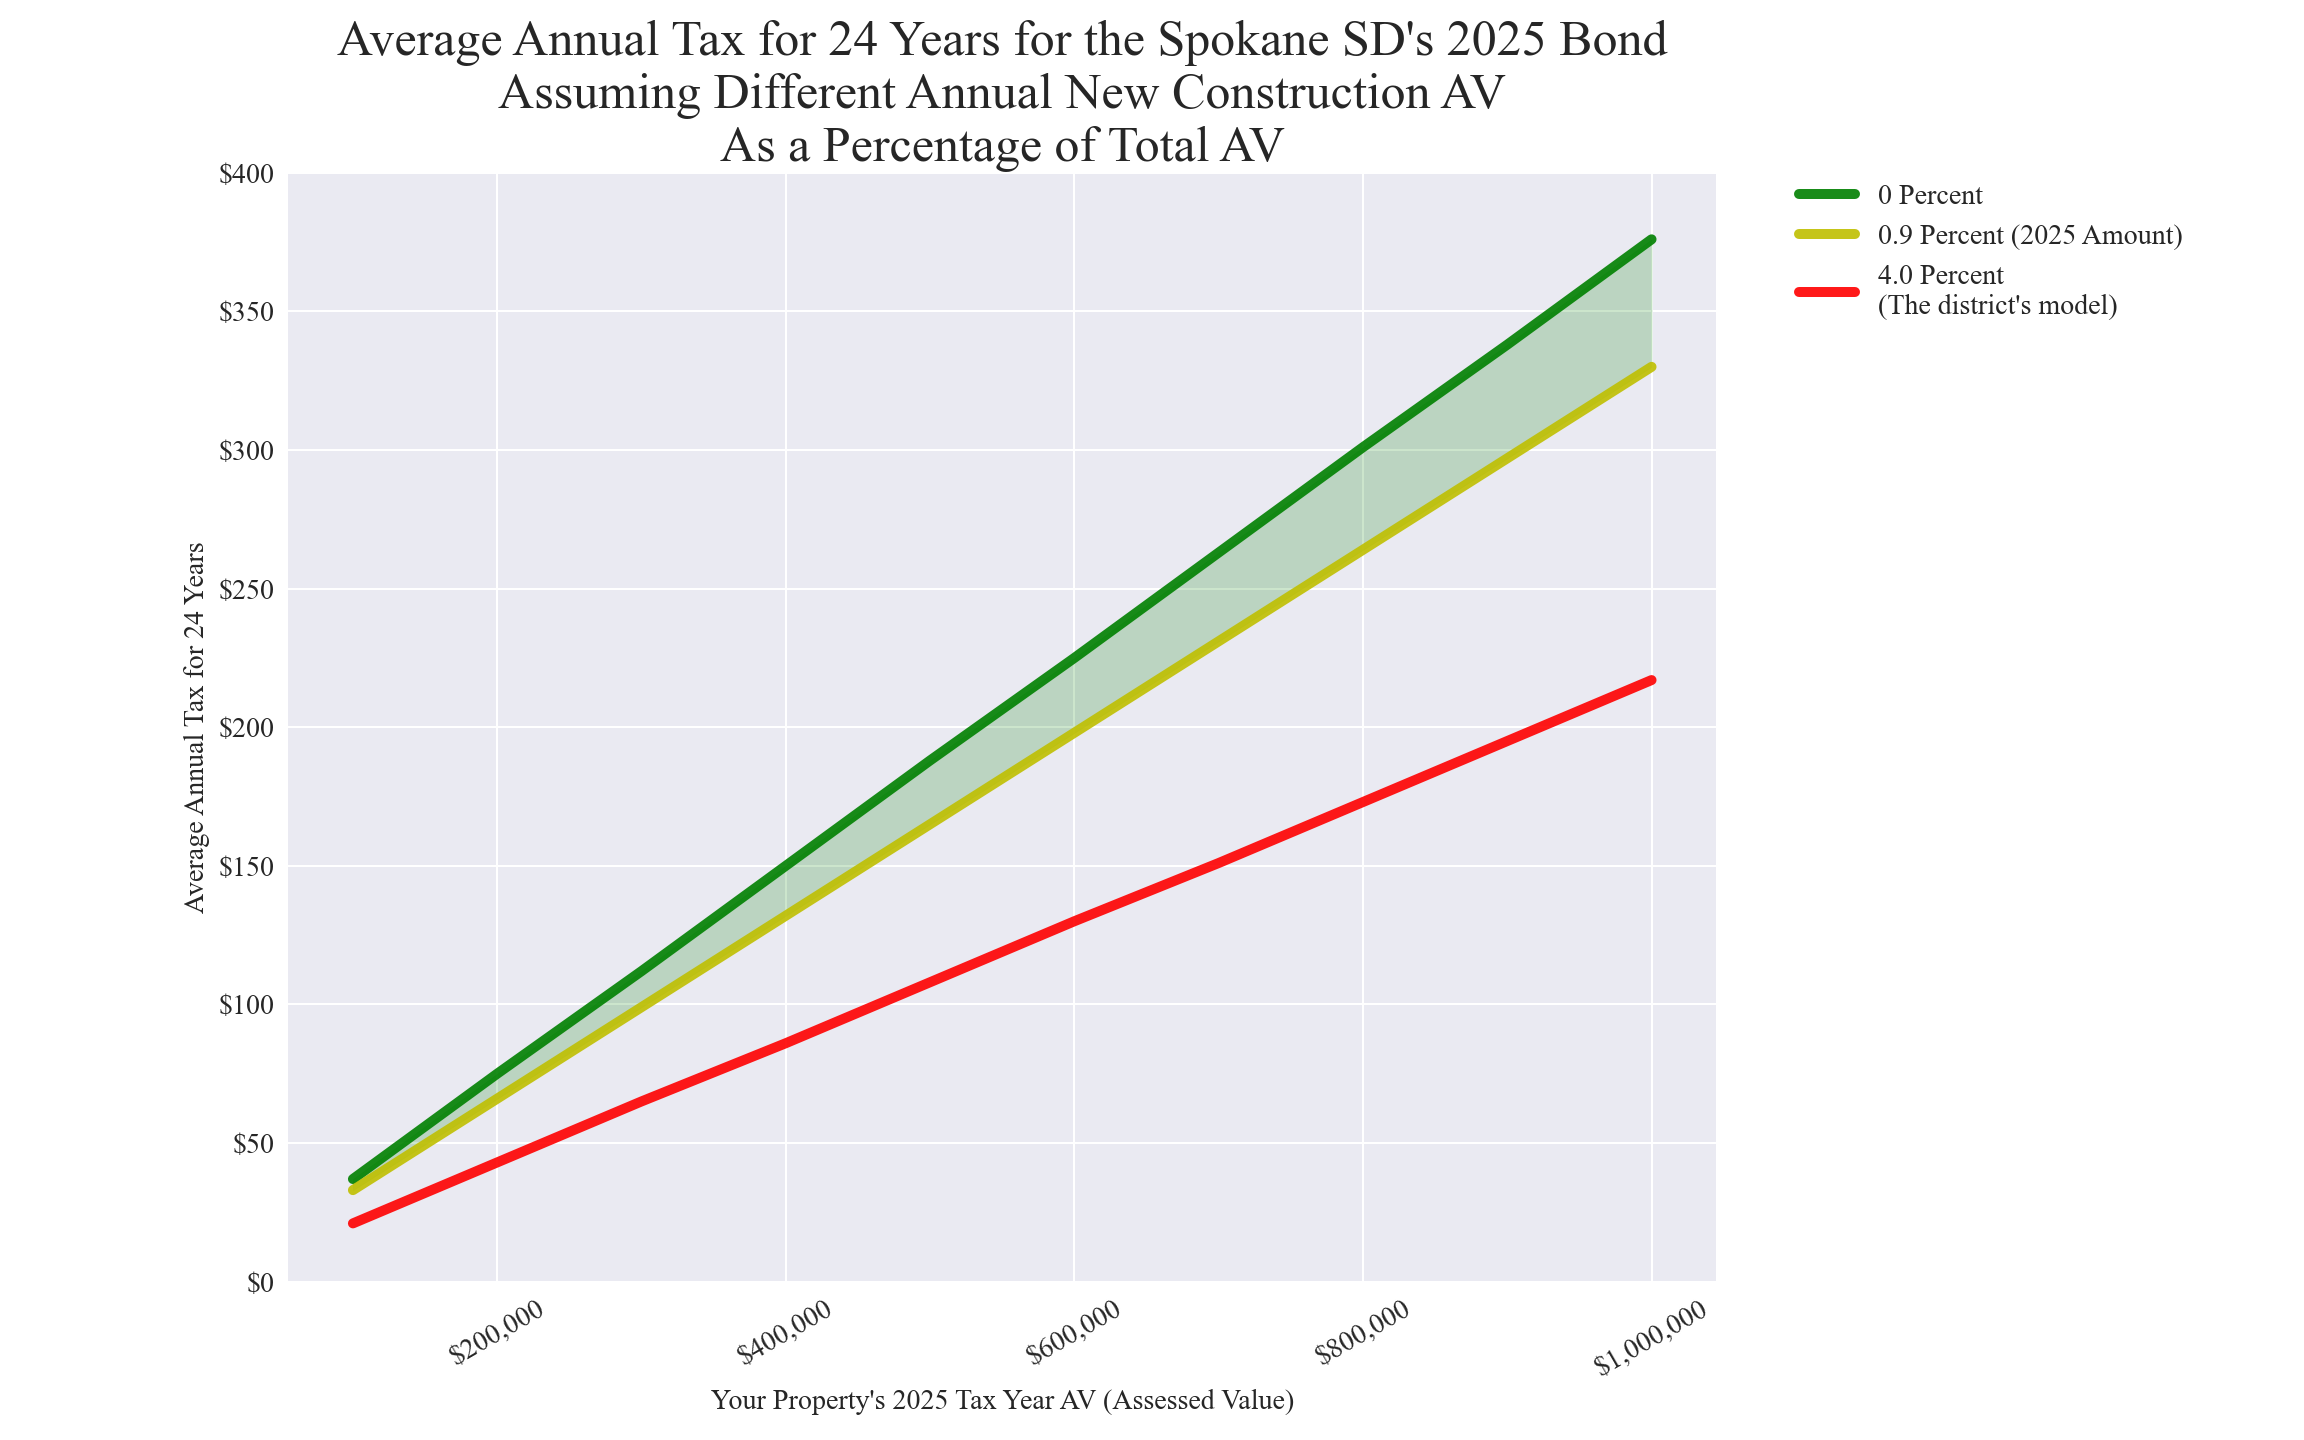
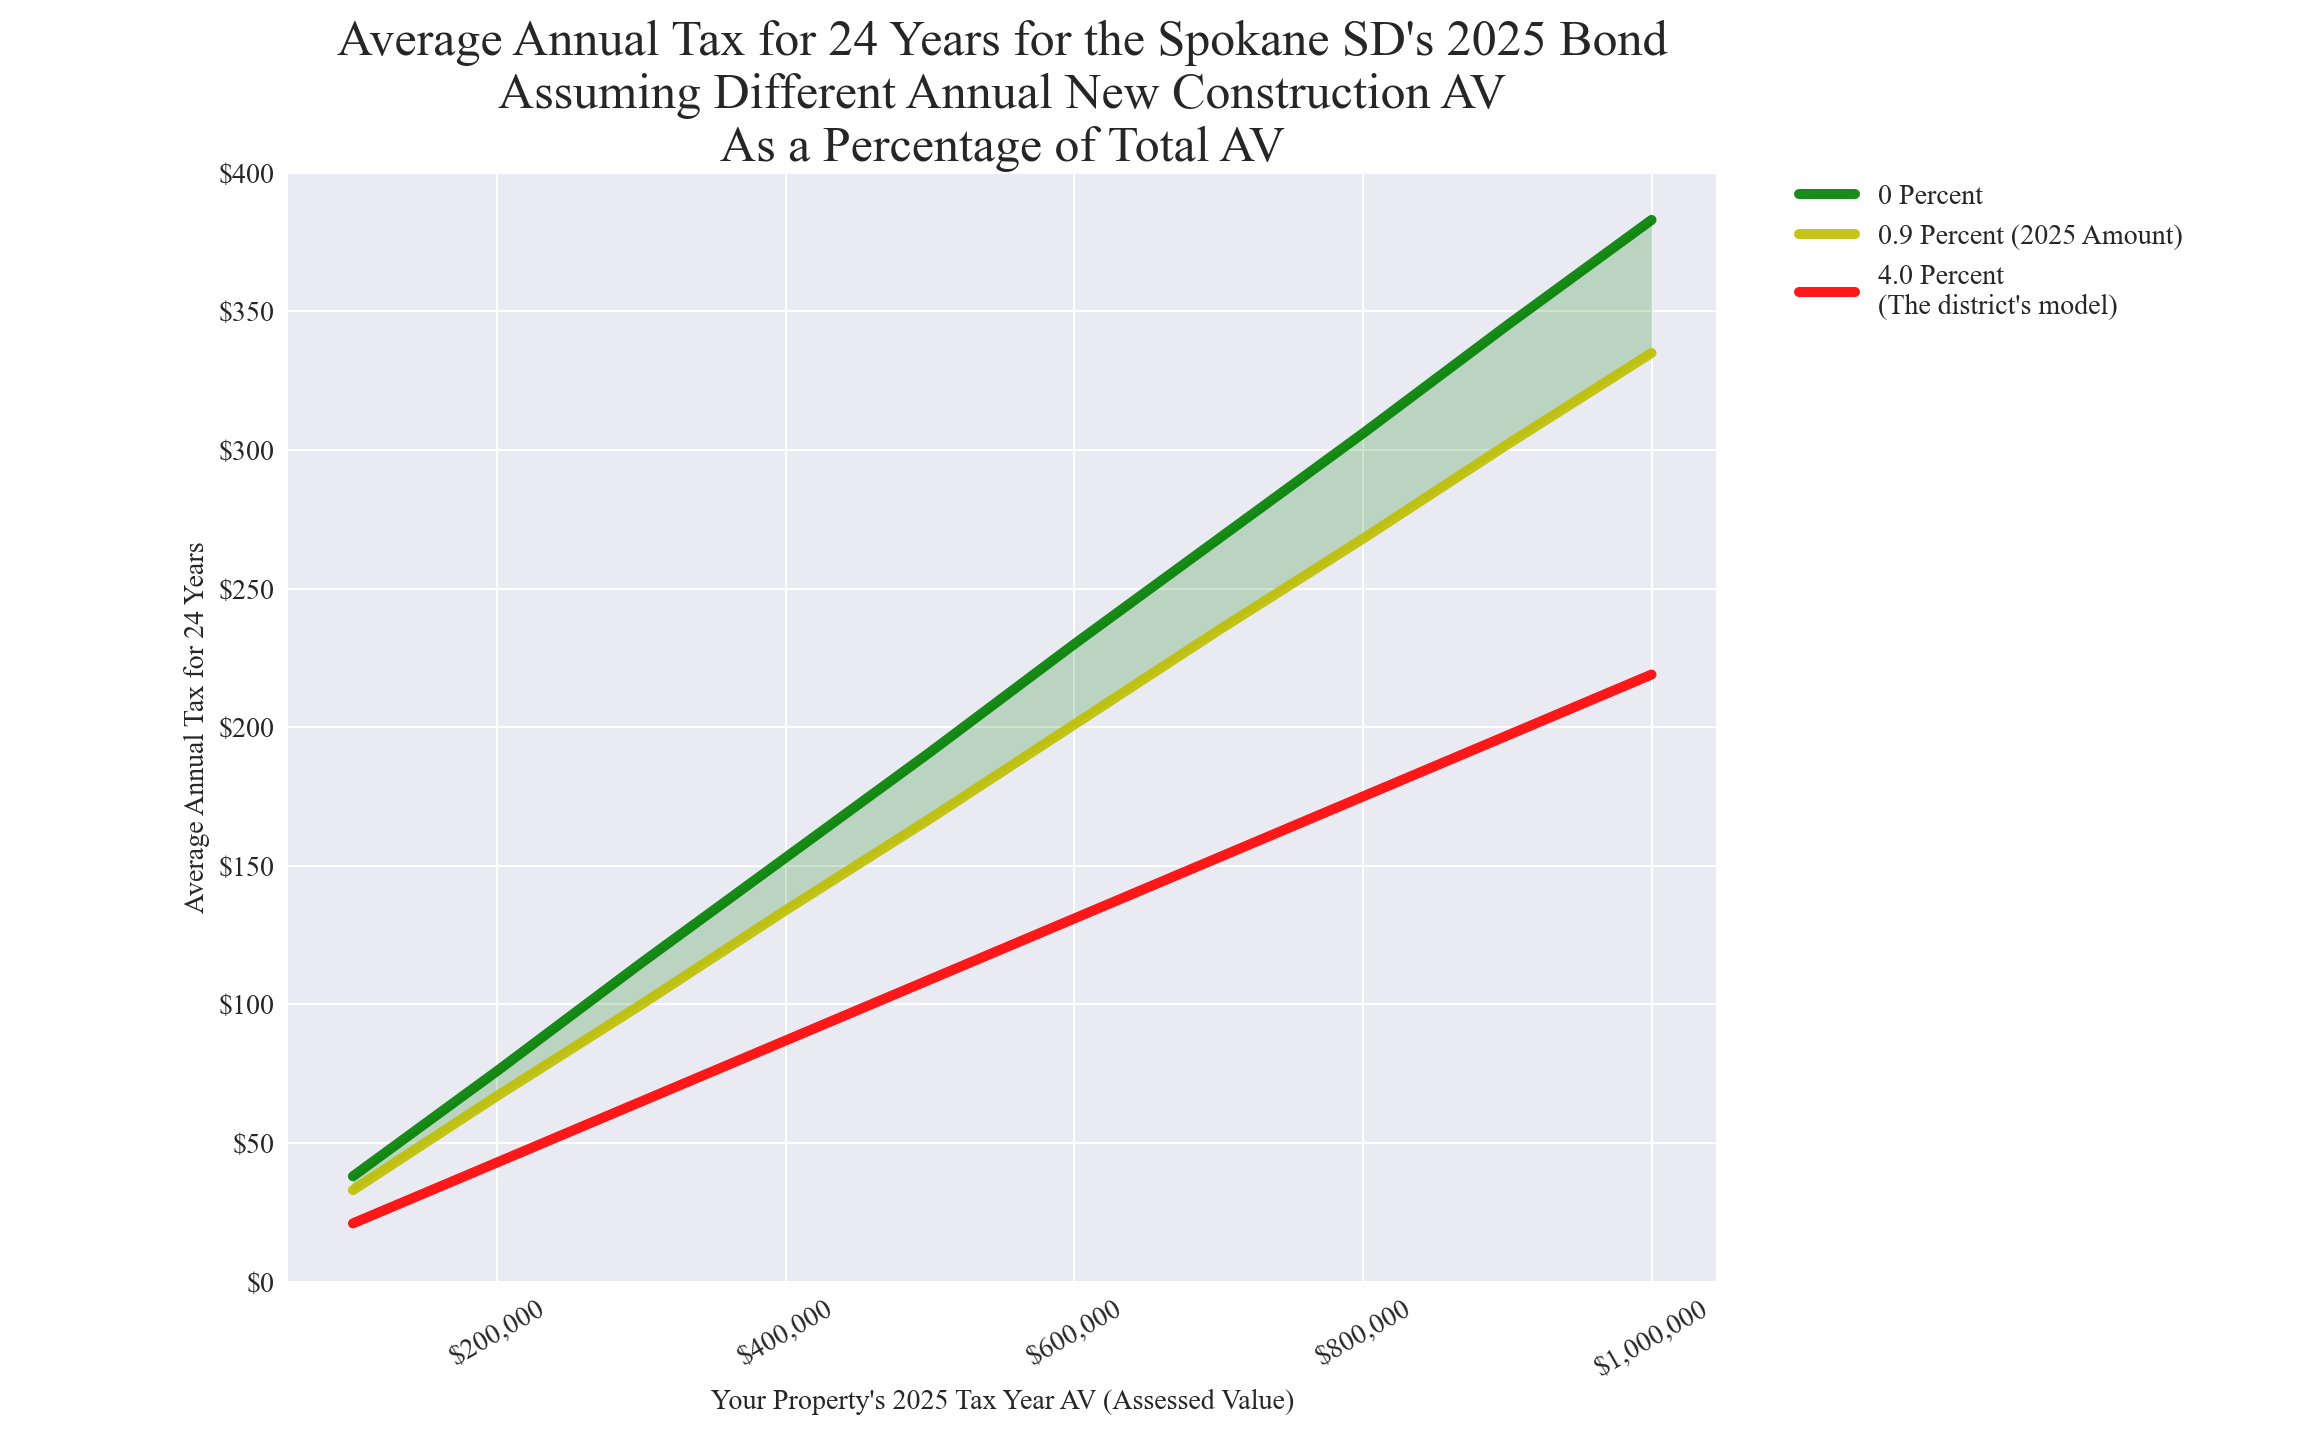
Updated election 20251104

diff --git a/_includes/cost_estimates/20251104/SpokaneBondTable_20251104.html b/_includes/cost_estimates/20251104/SpokaneBondTable_20251104.html
@@ -19,7 +19,7 @@ table, th, td {
 	sampleParcelAV = 475000;
 	sampleParcelAVMin = 100000;
 	sampleParcelAVMax = 2000000;
-	totalLevyCost = 344467032.457174;
+	totalLevyCost = 350781550;
 	sampleParcelPOF = sampleParcelAV / totalLevyAV;
 	totalLevyCostParcel = sampleParcelPOF * totalLevyCost;
 	levyYears = 24;
@@ -69,24 +69,24 @@ table, th, td {
 				['2025', 0, 36646353000, 0.0, 0, 0, 0.0, 0, 0, 0, 0.0, 0.0, 0],
 			['2026', 3494568, 36646353000, 0.0, 0, 0, 0.0, 0, 0, 0, 0.0, 0.0, 0],
 			['2027', 3641043, 36646353000, 0.0, 0, 0, 0.0, 0, 0, 0, 0.0, 0.0, 0],
-			['2028', 7812346, 36646353000, 0.0, 0, 0, 0.0, 0, 0, 0, 0.0, 0.0, 0],
-			['2029', 6184346, 36646353000, 0.0, 0, 0, 0.0, 0, 0, 0, 0.0, 0.0, 0],
-			['2030', 9523346, 36646353000, 0.0, 0, 0, 0.0, 0, 0, 0, 0.0, 0.0, 0],
-			['2031', 9908346, 36646353000, 0.0, 0, 0, 0.0, 0, 0, 0, 0.0, 0.0, 0],
-			['2032', 11718346, 36646353000, 0.0, 0, 0, 0.0, 0, 0, 0, 0.0, 0.0, 0],
-			['2033', 11828346, 36646353000, 0.0, 0, 0, 0.0, 0, 0, 0, 0.0, 0.0, 0],
-			['2034', 9376346, 36646353000, 0.0, 0, 0, 0.0, 0, 0, 0, 0.0, 0.0, 0],
-			['2035', 14236346, 36646353000, 0.0, 0, 0, 0.0, 0, 0, 0, 0.0, 0.0, 0],
-			['2036', 15442346, 36646353000, 0.0, 0, 0, 0.0, 0, 0, 0, 0.0, 0.0, 0],
-			['2037', 15975096, 36646353000, 0.0, 0, 0, 0.0, 0, 0, 0, 0.0, 0.0, 0],
-			['2038', 15972143, 36646353000, 0.0, 0, 0, 0.0, 0, 0, 0, 0.0, 0.0, 0],
-			['2039', 15975445, 36646353000, 0.0, 0, 0, 0.0, 0, 0, 0, 0.0, 0.0, 0],
-			['2040', 15974096, 36646353000, 0.0, 0, 0, 0.0, 0, 0, 0, 0.0, 0.0, 0],
-			['2041', 19361794, 36646353000, 0.0, 0, 0, 0.0, 0, 0, 0, 0.0, 0.0, 0],
-			['2042', 20112794, 36646353000, 0.0, 0, 0, 0.0, 0, 0, 0, 0.0, 0.0, 0],
-			['2043', 20892445, 36646353000, 0.0, 0, 0, 0.0, 0, 0, 0, 0.0, 0.0, 0],
-			['2044', 21703747, 36646353000, 0.0, 0, 0, 0.0, 0, 0, 0, 0.0, 0.0, 0],
-			['2045', 24599747, 36646353000, 0.0, 0, 0, 0.0, 0, 0, 0, 0.0, 0.0, 0],
+			['2028', 7856351, 36646353000, 0.0, 0, 0, 0.0, 0, 0, 0, 0.0, 0.0, 0],
+			['2029', 6228351, 36646353000, 0.0, 0, 0, 0.0, 0, 0, 0, 0.0, 0.0, 0],
+			['2030', 9567351, 36646353000, 0.0, 0, 0, 0.0, 0, 0, 0, 0.0, 0.0, 0],
+			['2031', 9952351, 36646353000, 0.0, 0, 0, 0.0, 0, 0, 0, 0.0, 0.0, 0],
+			['2032', 11762351, 36646353000, 0.0, 0, 0, 0.0, 0, 0, 0, 0.0, 0.0, 0],
+			['2033', 11872351, 36646353000, 0.0, 0, 0, 0.0, 0, 0, 0, 0.0, 0.0, 0],
+			['2034', 9420351, 36646353000, 0.0, 0, 0, 0.0, 0, 0, 0, 0.0, 0.0, 0],
+			['2035', 14280351, 36646353000, 0.0, 0, 0, 0.0, 0, 0, 0, 0.0, 0.0, 0],
+			['2036', 15486351, 36646353000, 0.0, 0, 0, 0.0, 0, 0, 0, 0.0, 0.0, 0],
+			['2037', 12975096, 36646353000, 0.0, 0, 0, 0.0, 0, 0, 0, 0.0, 0.0, 0],
+			['2038', 12972143, 36646353000, 0.0, 0, 0, 0.0, 0, 0, 0, 0.0, 0.0, 0],
+			['2039', 12975445, 36646353000, 0.0, 0, 0, 0.0, 0, 0, 0, 0.0, 0.0, 0],
+			['2040', 13974096, 36646353000, 0.0, 0, 0, 0.0, 0, 0, 0, 0.0, 0.0, 0],
+			['2041', 22745000, 36646353000, 0.0, 0, 0, 0.0, 0, 0, 0, 0.0, 0.0, 0],
+			['2042', 23496000, 36646353000, 0.0, 0, 0, 0.0, 0, 0, 0, 0.0, 0.0, 0],
+			['2043', 24276000, 36646353000, 0.0, 0, 0, 0.0, 0, 0, 0, 0.0, 0.0, 0],
+			['2044', 25088000, 36646353000, 0.0, 0, 0, 0.0, 0, 0, 0, 0.0, 0.0, 0],
+			['2045', 27984000, 36646353000, 0.0, 0, 0, 0.0, 0, 0, 0, 0.0, 0.0, 0],
 			['2046', 28860000, 36646353000, 0.0, 0, 0, 0.0, 0, 0, 0, 0.0, 0.0, 0],
 			['2047', 29768000, 36646353000, 0.0, 0, 0, 0.0, 0, 0, 0, 0.0, 0.0, 0],
 			['2048', 6053000, 36646353000, 0.0, 0, 0, 0.0, 0, 0, 0, 0.0, 0.0, 0],

diff --git a/_includes/cost_estimates/20251104/Spokane_20251104_Enhanced.html b/_includes/cost_estimates/20251104/Spokane_20251104_Enhanced.html
@@ -16,7 +16,7 @@
 	sampleParcelAVMin = 100000;
 	sampleParcelAVMax = 2000000;
 	totalBondPrincipal = 200000000;
-	totalBondInterest = 144467032.457174;
+	totalBondInterest = 150781550;
 	totalBondCost = totalBondPrincipal + totalBondInterest;
 	sampleParcelPOF = sampleParcelAV / totalBondAV;
 	totalBondCostParcel = 0;
@@ -39,30 +39,30 @@
 		data.addColumn('number', 'Interest + Fees');
 
 		data.addRows([
-			['2026', 1019508.0, 2475060.0],
-			['2027', 1460555.0, 2180488.0],
-			['2028', 2009735.0, 5802611.0],
-			['2029', 479849.0, 5704497.0],
-			['2030', 282081.0, 9241265.0],
-			['2031', 680128.0, 9228218.0],
-			['2032', 2522028.0, 9196318.0],
-			['2033', 2751220.0, 9077126.0],
-			['2034', 429260.0, 8947086.0],
-			['2035', 5309223.0, 8927123.0],
-			['2036', 6766480.0, 8675866.0],
-			['2037', 7619542.0, 8355554.0],
-			['2038', 7966333.0, 8005810.0],
-			['2039', 8335312.0, 7640133.0],
-			['2040', 8716593.0, 7257503.0],
-			['2041', 12504435.0, 6857359.0],
-			['2042', 13840308.0, 6272486.0],
-			['2043', 15269104.0, 5623341.0],
-			['2044', 16798324.0, 4905423.0],
-			['2045', 20485879.0, 4113868.0],
+			['2026', 855168.0, 2639400.0],
+			['2027', 1291691.0, 2349352.0],
+			['2028', 1881590.0, 5974761.0],
+			['2029', 345976.0, 5882375.0],
+			['2030', 142224.0, 9425127.0],
+			['2031', 534019.0, 9418332.0],
+			['2032', 2369389.0, 9392962.0],
+			['2033', 2591758.0, 9280593.0],
+			['2034', 262670.0, 9157681.0],
+			['2035', 5135186.0, 9145165.0],
+			['2036', 6584663.0, 8901688.0],
+			['2037', 4385594.0, 8589502.0],
+			['2038', 4591209.0, 8380934.0],
+			['2039', 4812857.0, 8162588.0],
+			['2040', 6040396.0, 7933700.0],
+			['2041', 15099010.0, 7645990.0],
+			['2042', 16576158.0, 6919842.0],
+			['2043', 18154107.0, 6121893.0],
+			['2044', 19840772.0, 5247228.0],
+			['2045', 23693452.0, 4290548.0],
 			['2046', 25717100.0, 3142900.0],
-			['2047', 27779257.0, 1988743.0],
-			['2048', 5498805.0, 554195.0],
-			['2049', 5758942.0, 294058.0],
+			['2047', 27879257.0, 1888743.0],
+			['2048', 5518806.0, 534194.0],
+			['2049', 5696948.0, 356052.0],
 
 		]);
 
